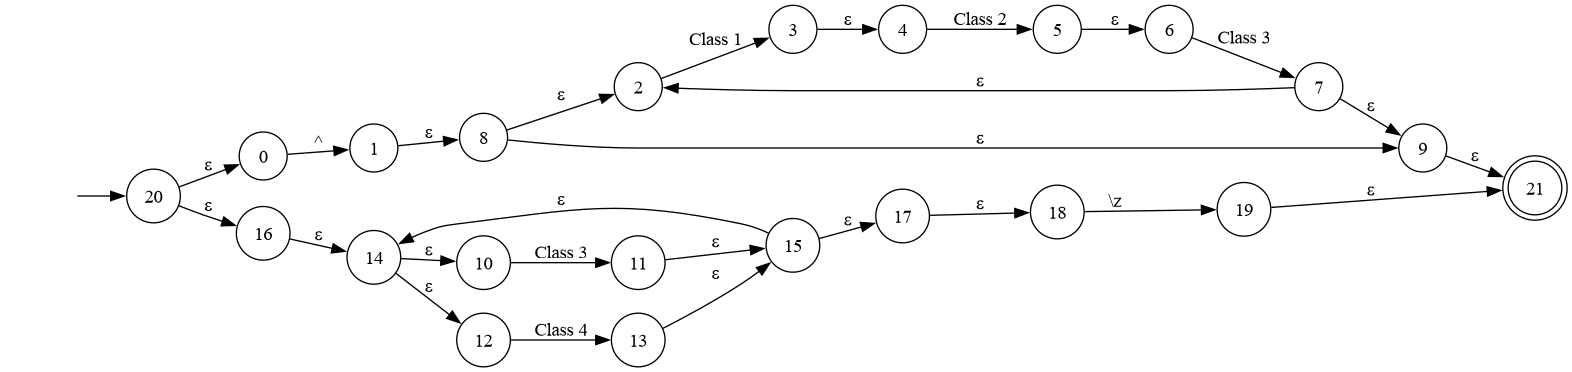
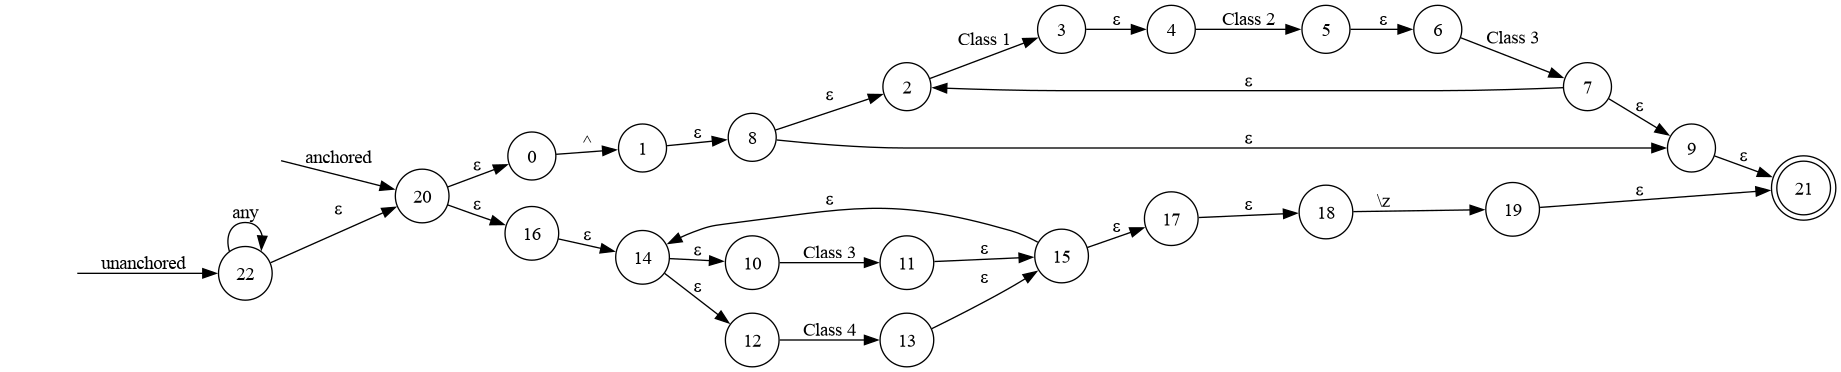
nfa, dfa: обновлённые README.md теперь описывают обработку unanchored-start-state

diff --git a/src/nfa/README.md b/src/nfa/README.md
@@ -1,12 +1,12 @@
 # Архитектура модуля nfa и алгоритмы построения и обхода НКА
 
 ## Составные файлы
-Модуль недетерминированных конечных автоматов (NFA) предназначен для трансляции абстрактного синтаксического дерева (AST) в НКА по алгоритму Томпсона, вычисления контекстно-зависимых epsilon-замыканий, инверсии графа и визуализации. Модуль разделён на 7 логических файлов:
-- **nfa.lisp** — Определяет ключевые типы данных: `nfa-edge` (содержит метку перехода `label` и целевое состояние `target`) и `nfa` (содержит вектор списков исходящих переходов `states`, стартовое и принимающее состояния);
+Модуль недетерминированных конечных автоматов (NFA) предназначен для трансляции абстрактного синтаксического дерева (AST) в НКА по алгоритму Томпсона c добавлением непривязанного внешнего стартового состояния (необходимо для дальнейшей реализации поиска границ подстрок, соответствующих регулярному выражению, и является аналогом добавления ".*?" в начало выражения), вычисления контекстно-зависимых epsilon-замыканий, инверсии графа и визуализации. Модуль разделён на 7 логических файлов:
+- **nfa.lisp** — Определяет ключевые типы данных: `nfa-edge` (содержит метку перехода `label` и целевое состояние `target`) и `nfa` (содержит вектор списков исходящих переходов `states`, стартовые (`anchored-start-state` и `unanchored-start-state`) и принимающее (`end-state`) состояния);
 - **nfa-builder.lisp** — Описывает структуру `nfa-builder` (содержит вектор состояний `states-vector`). Предоставляет функции добавления состояний (`builder-add-state!`), прокладки рёбер (`builder-add-edge!`), валидации конфликтов переходов по классам эквивалентности (`check-or-add-class-edge!`) и сборки итогового неизменяемого автомата (`finalize-nfa`);
 - **ast-to-nfa.lisp** — Определяет вспомогательную структуру `nfa-fragment` для хранения границ подграфов. Реализует трансляцию узлов AST в NFA-фрагменты и набор состояний по алгоритму Томпсона (`compile-ast-node`): обработку пустого выражения, литералов, символьных классов, контекстных якорей, конкатенации, альтернации, квантификаторов (`*`, `+`, `?`, `{m,n}`) и сшивание фрагментов epsilon-переходами (`join-fragments!`);
 - **closure.lisp** — Реализует алгоритм поиска в ширину (BFS) `epsilon-closure` с использованием плоского буфера очереди `queue` и битового вектора `visited` для предотвращения повторных посещений. Предикат `nfa-edge-traversable-p` проверяет проходимость рёбер с учётом битовой маски текущего контекста `context` (границы слова, начало/конец строки). Функция `finalize-closure-array` извлекает отсортированный статический вектор состояний;
-- **reverse-nfa.lisp** — Содержит вспомогательные функции для разворота направления рёбер НКА: `make-raw-reversed-nfa` меняет местами `start-state` и `accept-state`, а функции `add-reversed-edge!` и `reverse-state-edges!` транспонируют списки смежности для построения обратного автомата двухпроходного поиска;
+- **reverse-nfa.lisp** — Содержит вспомогательные функции для разворота направления рёбер НКА и правильной обработки `anchored-start-state`: `make-raw-reversed-nfa` меняет местами `anchored-start-state` и `accept-state`, функции `add-reversed-edge!` и `reverse-state-edges!` транспонируют списки смежности для построения обратного автомата двухпроходного поиска, а `reverse-unanchored-start-state!` перенаправляет ребро из `unanchored-start-state` в новый `anchored-start-state`;
 - **nfa-visualizer.lisp** — Предоставляет инструментарий генерации DOT-кода (`nfa-to-dot`) для отладки и визуального анализа структуры автомата. Выполняет форматирование спецсимволов и меток рёбер (`format-nfa-edge-label`), а также генерацию описаний узлов и переходов (`write-dot-node`, `write-dot-edges`).
 - **main.lisp** — Выступает в роли API модуля NFA для внешнего взаимодействия с модулем детерминизации (`dfa`). Предоставляет функции `build-nfa-from-ast`, `compute-nfa-closure` (с автоматическим выделением рабочих буферов `queue` и `visited` под размер NFA) и `reverse-nfa`.
 
@@ -15,12 +15,13 @@
 * **Конструкция Томпсона:**
   * **Компоновка из подграфов:** Каждый узел AST транслируется в `nfa-fragment` с ровно **одним входом** и **одним выходом**.
   * **Изоляция и сшивка:** Сложные составные конструкции (альтернация, квантификаторы, конкатенация) строятся за счёт выделения новых внешних состояний и объединения фрагментов epsilon-переходами за `O(1)`.
+  * **Добавление непривязанного внешнего стартового состояния:** Добавляется новое стартовое состояние, а также 2 ребра из него: epsilon-переход в `anchored-start-state` и петля по любому символу `:any-class-id` в себя же. Индекса данного состояния сохраняется в поле `unanchored-start-state`.
 * **Контекстные epsilon-переходы и epsilon-замыкание:**
   * **Обход в ширину (BFS):** Для сбора замыкания используются заранее выделенная плоская очередь `queue` и битовый вектор посещений `visited`, исключающий повторный обход узлов (гарантирует сложность `O(V + E)`).
   * **Динамическая фильтрация рёбер:** Контекстные якоря (`^`, `$`, `\b` и др.) кодируются как специальные метки рёбер. При вычислении замыкания предикат `nfa-edge-traversable-p` проверяет бит соответствия в маске `context` через `logbitp`.
   * **Канонизация результата:** Выходной вектор состояний сортируется по возрастанию индексов, что делает результат каноническим представлением состояния будущей детерминированной машины (DFA).
 * **Инверсия графа НКА:**
-  * Транспонирование графа выполняет инверсию связей за один линейный проход по массиву состояний `O(V + E)`, инвертируя направление вызовом `add-reversed-edge!`.
+  * Транспонирование графа выполняет инверсию связей за один линейный проход по массиву состояний `O(V + E)`, инвертируя направление вызовом `add-reversed-edge!`, либо перенаправляя ребро на новый `anchored-start-state` для `unanchored-start-state`.
 
 ## Описание процесса компиляции и обработки
 

diff --git a/src/dfa/README.md b/src/dfa/README.md
@@ -4,7 +4,7 @@
 Модуль детерминированных конечных автоматов (DFA) предназначен для ленивой детерминизации недетерминированного конечного автомата (NFA) методом подмножеств (subset construction), выполнения контекстно-зависимых переходов, динамического построения и кэширования состояний ДКА, а также автоматического управления памятью. Модуль разделён на 6 логических файлов:
 * **dfa.lisp** — Определяет ключевые типы данных: `dfa-state` (содержит каноническое подмножество состояний НКА `nfa-set`, флаг принимающего состояния `accept-p` и хэш-таблицу переходов `transitions`) и `dfa` (хранит реестр уникальности `state-map`, вектор сгенерированных состояний `states`, вектор стартовых состояний по контекстам `start-states`, ограничение `max-states` и предварительно выделенные буферы `nfa-buffer-queue` и `nfa-buffer-visited`). Предоставляет функции `allocate-nfa-buffers` и `make-dfa-instance`;
 * **state-registry.lisp** — Изолирует логику идентификации и хранения уникальных состояний ДКА. Предикат `nfa-set-accept-p` проверяет наличие принимающего состояния НКА в подмножестве, `create-dfa-state` конструирует узел ДКА, а `register-dfa-state!` заносит его в вектор и хэш-таблицу отображения. Функция `get-or-register-dfa-state!` обеспечивает дедупликацию и получение ID состояния;
-* **start-states.lisp** — Управляет фиксированным вектором `start-states` (64 элемента) для различных масок контекста. Функция `compute-start-nfa-closure` строит начальное epsilon-замыкание для стартового состояния НКА с учётом начального контекста без лишних аллокаций. Функция `get-dfa-start-state!` отвечает за кэширование и выдачу ID стартового состояния ДКА;
+* **start-states.lisp** — Управляет фиксированным вектором `start-states` (128 элемента) для различных масок контекста как привязанного (anchored), так и непривязанного (unanchored) автомата. Функция `compute-start-nfa-closure` строит начальное epsilon-замыкание для стартового состояния НКА с учётом предиката `unachored-p` (в дальнейшем будет использоваться для нахождения границ подстрок, соответствующих паттерну регулярного выражения), а также начального контекста без лишних аллокаций. Функция `get-dfa-start-state!` отвечает за кэширование и выдачу ID стартового состояния ДКА;
 * **step.lisp** — Реализует функцию перехода по графу `dfa-step`. Функция `pack-transition-key` упаковывает пару (`class-id`, `context`) в один `fixnum`-ключ. Быстрый путь (`hot-path`) извлекает результат из хэш-таблицы за $O(1)$. При отсутствии перехода срабатывает «холодный путь» (`cold-path`), вычисляющий целевое подмножество НКА через `compute-target-nfa-set` и строящий epsilon-замыкание. При заполнении кэша `cold-path-no-dfa-state` вызывает сброс памяти через `ensure-cache-space!`;
 * **cache.lisp** — Обеспечивает контроль объёма задействованной памяти. Предикат `dfa-cache-full-p` проверяет достижение лимита `max-states`. Функция `flush-dfa-cache!` производит очистку таблицы `state-map`, обнуление вектора `states` и сброс вектора `start-states` значениями `-1`. Функция `ensure-cache-space!` выполняет условный сброс кэша;
 * **main.lisp** — Выступает публичным API модуля DFA: предоставляет функцию создания ленивого автомата `make-lazy-dfa` (с валидацией `max-states` $\ge 2$), вычисление стартового состояния `dfa-get-start-state`, выполнение перехода `dfa-step-state`, считывание флага завершения `dfa-accept-state-p`, инспекцию размера кэша `dfa-cache-count` и принудительный сброс `reset-dfa!`.
@@ -23,7 +23,8 @@
 
 ## Описание процесса обработки и выполнения шага
 1. **Инициализация стартового состояния (`start-states.lisp`)**
-* `get-dfa-start-state!` проверяет индекс контекста в векторе `start-states` (размером 64 элементов).
+* `get-dfa-start-state!` проверяет индекс контекста для автомата определённого типа (anchored или unanchored) в векторе `start-states` (размером 128 элементов).
+* 0-5 разряды в двоичном представлении индексы означают маску контекста, 6 разряд означает тип автомата: 0 — anchored, 1 — unanchored.
 * Если состояние с данным контекстом не вычислено (`-1`), вычисляется `compute-start-nfa-closure` от начального состояния НКА с учётом начальной битовой маски `context`.
 * Результат сохраняется в реестре `state-registry` и заносится в `start-states`.
 2. **Выполнение шага перехода (`step.lisp`)**
@@ -31,6 +32,6 @@
 * Проверяется наличие `key` в таблице `transitions` текущего состояния:
 * **Hot Path:** Если ключ найден, возвращается закэшированный `target-state-id`.
 * **Cold Path:** Если ключ отсутствует, вызывается `compute-target-nfa-set`.
-* `compute-target-nfa-set` вычисляет прямые переходы НКА по `class-id`, а затем передаёт их в `compute-nfa-closure` с учётом текущего контекста.
+* `compute-target-nfa-set` вычисляет прямые переходы НКА по `class-id`, а затем передаёт их в `compute-nfa-closure` с учётом текущего контекста. Для состояния, включающего `unanchored-start-state` НКА, `compute-target-nfa-set` всегда будет включать его же в результирующее множество (т.к. оно содержит петлю в себя же с `label` `:any-class-id`).
 * Если полученное подмножество пустое, в `transitions` записывается `-1` (тупиковое состояние).
 * В противном случае `get-or-register-dfa-state!` проверяет наличие такого подмножества в `state-map`. При его отсутствии создаётся и регистрируется новый `dfa-state`, а перед занесением при необходимости вызывается `ensure-cache-space!`.
